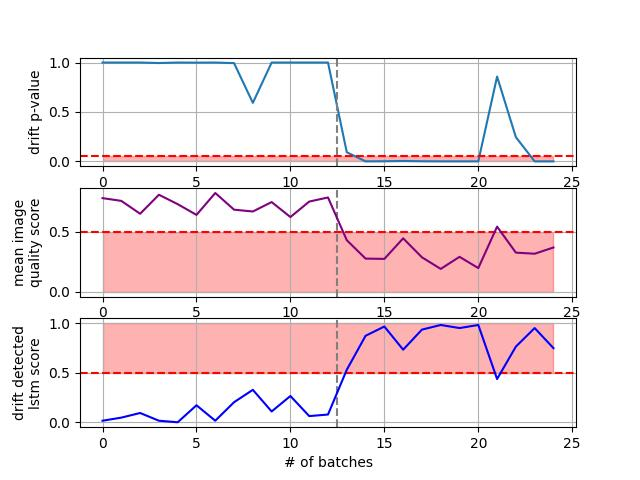
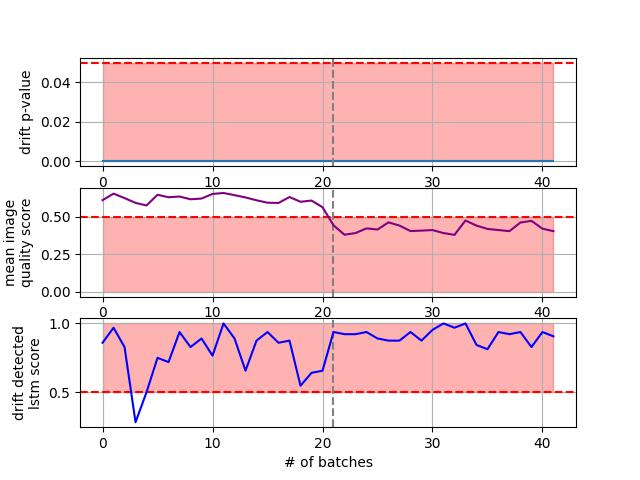
added random dist on last half

diff --git a/dataloaders.py b/dataloaders.py
@@ -27,7 +27,7 @@ dstr = [
 distortion_transforms = { i:getattr(dstr_all, d) for i,d in enumerate(dstr)}
 
 class VideoFootage(Dataset):
-    def __init__(self, image_paths: str, distort: bool = True):
+    def __init__(self, image_paths: str, distort: bool = False):
 
         self.image_paths = image_paths
         # self.display_im = display_im
@@ -38,6 +38,11 @@ class VideoFootage(Dataset):
         self.distort = distort
         np.random.seed(seed=1234)
 
+        self.last_half = self.__len__()//2
+        self.end = self.__len__()
+
+        self.random_dist = np.random.choice([i for i in range(self.last_half, self.end)], self.last_half)
+        print(self.random_dist)
     def __len__(self):
         return len(self.image_paths)
 
@@ -45,45 +50,30 @@ class VideoFootage(Dataset):
 
 
         image = Image.open(self.image_paths[idx])
-        
-        # if self.scenario ==None:
-        #     random_label = np.random.choice(list(self.labels.keys()), 1)[0]
-        # else:
-        #     assert self.scenario in list(self.labels.keys())
-        #     n = self.scenario if idx>self.__len__()//2 else "normal"
-
-        # if self.display_im:
-        #     display_image = image
-
 
         preproc = T.Compose([
             T.CenterCrop(size=min(image.size)),
-            T.ToImage(), T.ToDtype(torch.float32, scale=True),
+            T.ToTensor(), T.ToDtype(torch.float32, scale=True),
             T.Normalize(mean=[0.485, 0.456, 0.406], std=[0.229, 0.224, 0.225]),
+            
         ])
-        
+
+
+
         image = preproc(image)
-        if idx<self.__len__()//2 or not self.distort:
-            label = torch.tensor([1])
+        if idx<self.__len__()//2:
+            label = torch.tensor(1)
         else:
             if self.distort:
-                # image = self.transforms[0](image)
-                label = torch.tensor([1])
-        
-        # minimize = T.Compose([T.Resize((128,128)),])
+                if idx in self.random_dist:
+                    image = self.transforms[0](image)
+                    label = torch.tensor(2)
+                else:
+                    label = torch.tensor(1)
+            else:
+                label = torch.tensor(1)
 
-        # small_image = minimize(image)
 
-        # label = torch.tensor(self.labels[n])
-        # if self.display_im:
-        #     if not exists("display_frames"):
-        #         mkdir("display_frames")
-        #     plt.xticks([])
-        #     plt.yticks([])
-        #     plt.imshow(display_image)
-            
-        #     plt.savefig(join("display_frames", "frame_{}.jpg".format(idx)), bbox_inches ="tight")
-        #     plt.close()
         return image, label, label
 
 class kadid10k(Dataset):
@@ -101,15 +91,6 @@ class kadid10k(Dataset):
             label = 1
         else:
             quality = int(im_path.split('.')[0][-1])
-            # distortion_type = int(im_path.replace(".png", "").split("_")[-2])
-            # if distortion_type[0]=="0":
-            #     distortion_type = int(distortion_type[1])
-            # else:
-            #     distortion_type = int(distortion_type)        
-            # if quality in [1,2,3]:
-            #     label = 0
-            # else:
-            #     label = 1
             label = quality
 
         big_image = Image.open(im_path)
@@ -123,7 +104,7 @@ class kadid10k(Dataset):
         ds_preproc = T.Compose([
             T.Resize((128,128)),
         ])
-        
+
         big_image = preproc(big_image)
         small_image = ds_preproc(big_image)
         

diff --git a/main.py b/main.py
@@ -88,12 +88,9 @@ def init_dataloaders(dataset="kadid10k", batch_size=32):
         train_paths, test_paths = train_test_split(
             image_paths, test_size=0.5, random_state=42, shuffle=False)
 
-        # train_paths, ddet_paths  = train_test_split(
-        #     train_paths, test_size=0.5, random_state=42, shuffle=True)
-
-        train_dataset = VideoFootage(train_paths)
-        test_dataset = VideoFootage(test_paths)
-        drift_dataset = VideoFootage(train_paths, distort=False)
+        train_dataset = VideoFootage(train_paths, distort=True)
+        test_dataset = VideoFootage(test_paths, distort=True)
+        drift_dataset = VideoFootage(train_paths)
         print(train_dataset.__len__())
         print(test_dataset.__len__())
         print(drift_dataset.__len__())
@@ -123,12 +120,14 @@ def load_arniqa_model(regr_dt: str = "kadid10k"):
 def load_drd(enc: nn.Module, 
              ddetector_dts: DataLoader, 
              dd_type:  str = "mmd", 
-             feat_ext_slice: int = -2,
+             feat_ext_slice: int = 0,
              minimize_f: nn.Module = None):
 
     model = enc.to(device).eval()
     if minimize_f==None:
         minimize_f = T.Compose([T.Resize((64,64))])
+
+
 
     ddetect = drift_detector(detector=dd_type)
 
@@ -142,9 +141,9 @@ def load_drd(enc: nn.Module,
     
     for p in feat_ext.parameters():
         p.requires_grad_(False)
-
+        flip = T.RandomHorizontalFlip(p=0.5)
     for bim, _, _ in tqdm(ddetector_dts, desc="Drift fit"):
-        inp = feat_ext(minimize_f(bim).to(device))
+        inp = feat_ext(flip(minimize_f(bim)).to(device))
         inp = inp.reshape(bim.shape[0], -1)
         ddetect.fit(inp)
 
@@ -201,8 +200,10 @@ def compute_quality_score(model, img):
 if __name__ == "__main__":
     mini = T.Compose([T.Resize((128,128))])
     
+    dataset="traffic_inspection"
     # dataset="assembly_line_extreme_inspection"
-    dataset="kadid10k"
+    # dataset="assembly_line_inspection"
+    # dataset="kadid10k"
     global_batch_size = 64
     train, test, ddet = init_dataloaders(
         dataset=dataset, batch_size=global_batch_size)
@@ -212,7 +213,7 @@ if __name__ == "__main__":
     model_drd, ddetect = load_drd(
         enc=deepcopy(model_arniqa.encoder),
         ddetector_dts=ddet,
-        feat_ext_slice=-2, 
+        feat_ext_slice=0, 
         minimize_f = mini
         )
      
@@ -248,14 +249,17 @@ if __name__ == "__main__":
                 )
             
             dd_in = model_drd(images.to(device))
+
             dd_in = dd_in.reshape(bimages.shape[0], -1)
+
             pv = ddetect.forward(dd_in).item()
 
             meaniq = arniqa_outputs.mean().item()
-
             lstm_labels = torch.where(labels>1, 1, 0)
             lstm_labels = torch.nn.functional.one_hot(lstm_labels.long(), 2)
             lstm_mean = torch.argmax(lstm_outputs, dim=1).float().mean()
+
+            print(arniqa_outputs, labels)
 
             all_drift_p_values.append(pv)
             mean_iqscore_values.append(meaniq)

diff --git a/drift_detector.py b/drift_detector.py
@@ -6,6 +6,7 @@ class drift_detector(nn.Module):
     def __init__(self, detector="mmd") -> None:
         super(drift_detector, self).__init__()
         if detector=="mmd":
+            print(detector)
             self.detector = KernelMMDDriftDetector(return_p_value=True)
         else:
             self.detector = KSDriftDetector(return_p_value=True)
@@ -14,4 +15,4 @@ class drift_detector(nn.Module):
         self.detector.fit(inp)
 
     def forward(self, y_pred):
-        return self.detector.compute_p_value(y_pred)
+        return self.detector.forward(y_pred)

diff --git a/distortions.py b/distortions.py
@@ -31,7 +31,7 @@ def gaussian_blur(x: torch.Tensor, blur_sigma: int = 5) -> torch.Tensor:
     return y
 
 
-def lens_blur(x: torch.Tensor, radius: int) -> torch.Tensor:
+def lens_blur(x: torch.Tensor, radius: int=10) -> torch.Tensor:
     h = fspecial('disk', radius)
     h = torch.from_numpy(h).float()
 
